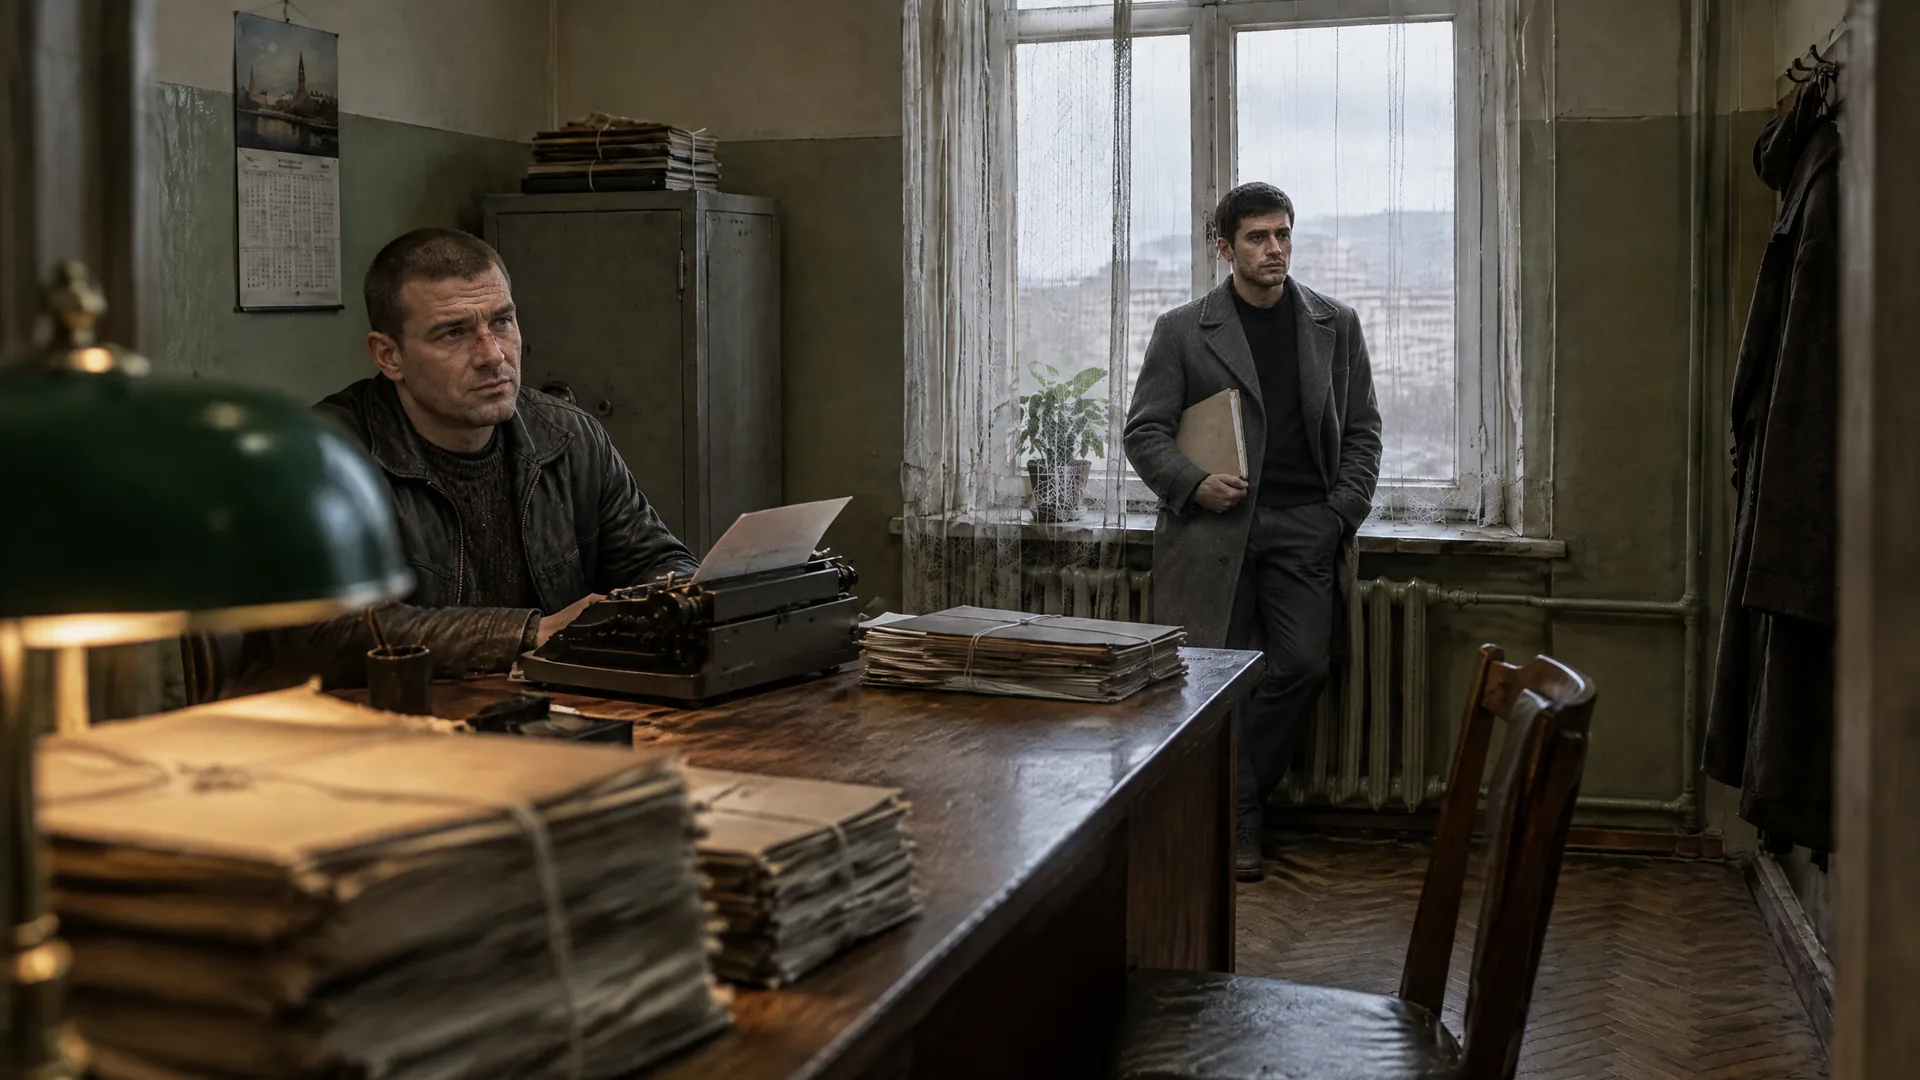
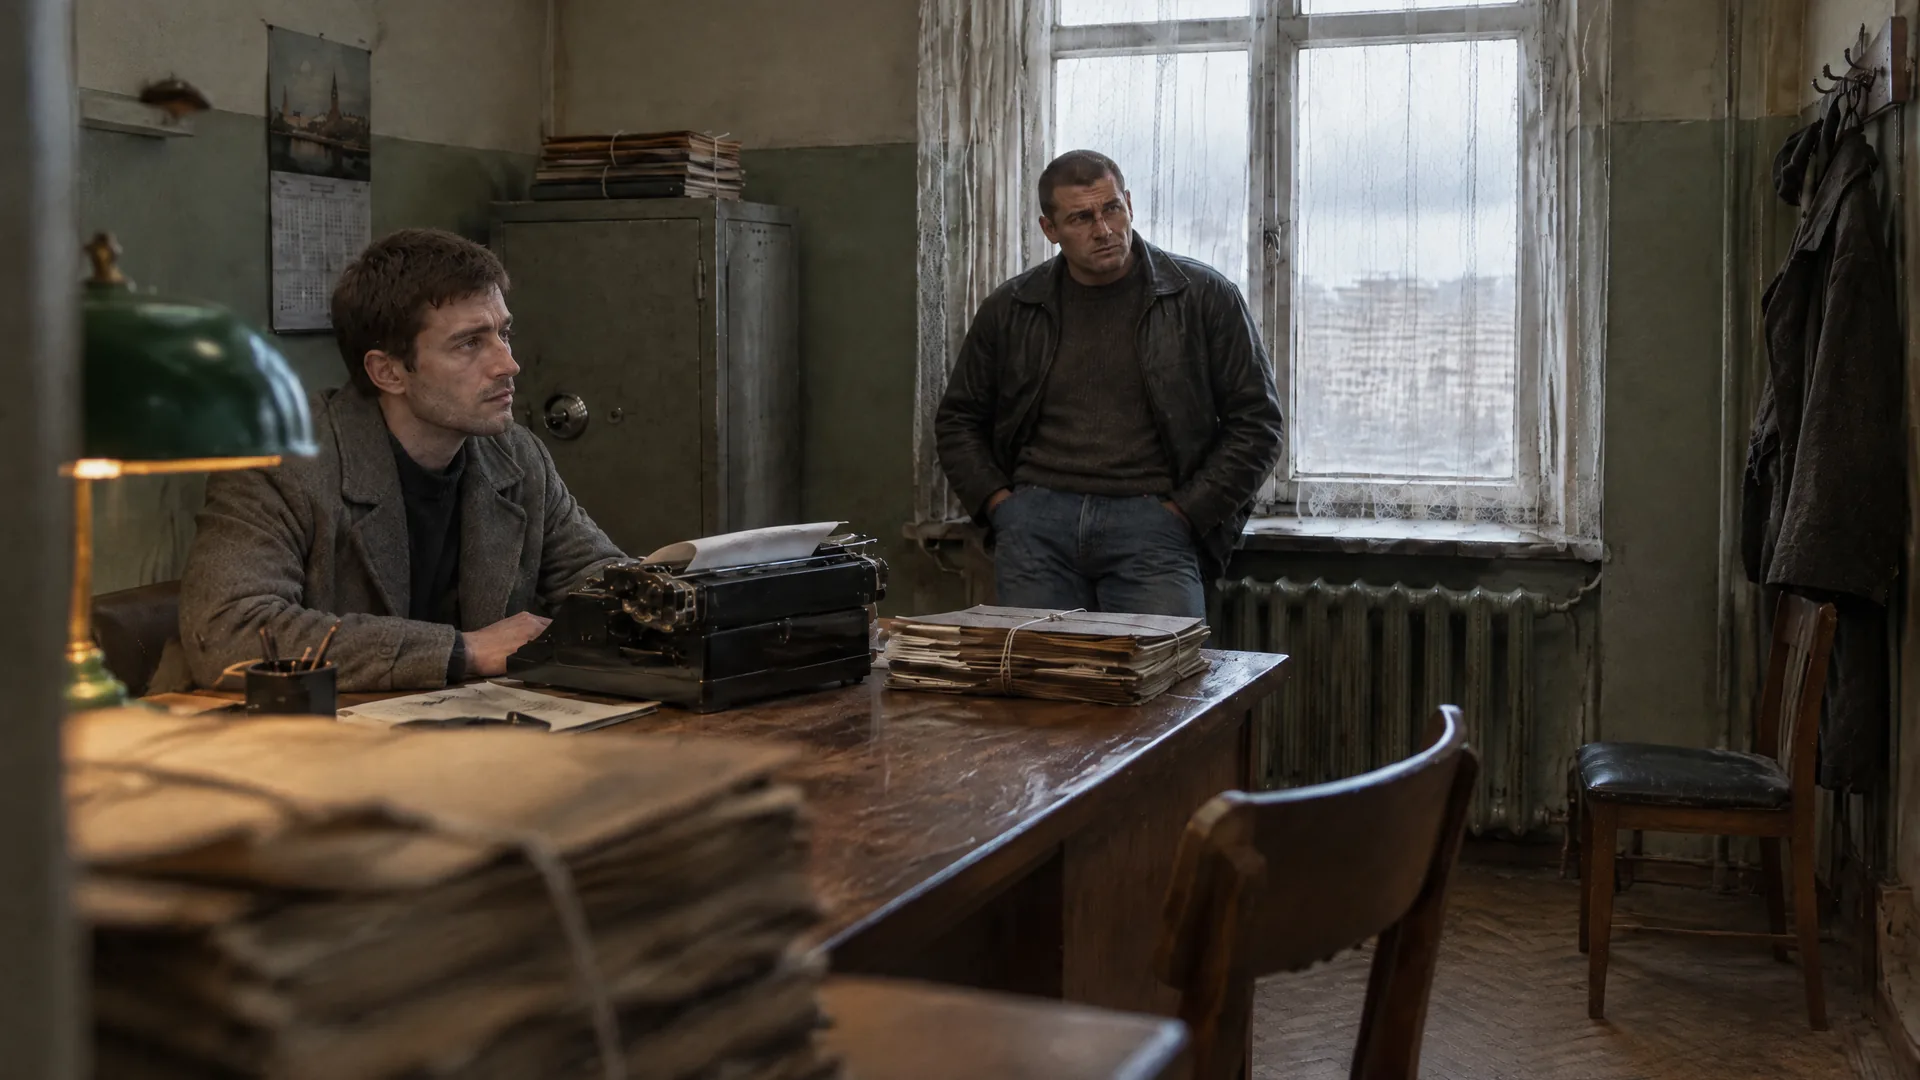
Раскадровка office_day закрыта (41/41): ракурсы по среднему референсу; пилот office_night
- angle_low / angle_foreground: приняты варианты со средним планом в референсе (с общим планом модель
  меняла людей местами); в планировщике ракурсы берут референс REF_SHOTS["angle"], для ночного сета
  той же комнаты — дневные референсы с оговоркой о свете (SET_TOD).
- Манифест: пилот office_night (wide ×2, close, medium); журнал генерации — итоги волн 16–18.

Claude-Session: https://claude.ai/code/session_01AuW8jjJwayzqYj6WLfnAKs

diff --git a/tools/shot_plan.py b/tools/shot_plan.py
@@ -182,8 +182,25 @@ def screen_sides(bg: str, a: str, b: str) -> tuple[str, str] | None:
 # крупность. Ключ — сет, значение — id кадра из манифеста (его job id подставляется первым референсом).
 REF_SHOTS = {
     "office_day": {"medium": "sh_office_day_medium_2", "close": "sh_office_day_close_sledak_tense",
-                   "reaction": "sh_office_day_close_sledak_tense"},
+                   "reaction": "sh_office_day_close_sledak_tense", "angle": "sh_office_day_medium_2"},
+    # Ночной сет той же комнаты: пока нет принятого ночного близкого кадра, референс — дневной; промпт
+    # говорит, что свет теперь другой (LIGHT NOW). После первого принятого ночного кадра — заменить.
+    "office_night": {"medium": "sh_office_day_medium_2", "close": "sh_office_day_close_sledak_tense",
+                     "reaction": "sh_office_day_close_sledak_tense", "angle": "sh_office_day_medium_2"},
 }
+# Для ракурсов (angle) референс — принятый средний план, а не общий: с общим планом модель дважды
+# меняла людей местами (office_day, волна 18), со средним оба ракурса вышли с первого раза.
+
+# Время суток каждого сета (заполняется в analyse_sets) — чтобы сказать модели, что референс снят при другом свете.
+SET_TOD: dict[str, str] = {}
+
+
+def ref_shot_tod(shot_id: str) -> str | None:
+    """Время суток сета, которому принадлежит референс-кадр (по префиксу id)."""
+    for name, tod in SET_TOD.items():
+        if shot_id.startswith(f"sh_{name}_"):
+            return tod
+    return None
 
 INSERTS = {
     "bg_office_prosecutor": [
@@ -369,10 +386,23 @@ def build_prompt(base: str, realism: str, shot: dict, bg_subject: str, tod: str,
     body = re.sub(r"CAMERA\n(?:- [^\n]*\n)+", cam + "\n", base, count=1)
     body = body.replace("IMPORTANT RESTRICTIONS", realism.rstrip("\n") + "\n\nIMPORTANT RESTRICTIONS", 1)
     # референсы
-    closer = shot["kind"] in ("medium", "close", "reaction") and REF_SHOTS.get(shot["set"], {}).get(shot["kind"])
-    refs = [("Reference 1 is the same room seen from closer: keep its furniture, light and colours; frame this shot "
-             "at least as close as Reference 1." if closer else
-             "Reference 1 is the room itself: keep its furniture, window, lamps and props exactly where they are.")]
+    closer = shot["kind"] in ("medium", "close", "reaction", "angle") and REF_SHOTS.get(shot["set"], {}).get(shot["kind"])
+    ref_tod = ref_shot_tod(closer) if closer else None
+    if closer and shot["kind"] == "angle":
+        ref1 = ("Reference 1 is the same room seen from closer: keep its furniture, light and colours and who sits "
+                "where, but do not copy its framing: the camera of this shot stands where the scene text says.")
+        if ref_tod and ref_tod != tod:
+            ref1 = ref1[:-1] + f"; it was photographed by {ref_tod}, and the light is now as LIGHT NOW in the scene text says."
+    elif closer and ref_tod and ref_tod != tod:
+        ref1 = (f"Reference 1 is the same room seen from closer, photographed by {ref_tod}: keep its furniture and "
+                "colours and stand the camera at least as close, but the light is now different, exactly as LIGHT NOW "
+                "in the scene text says.")
+    elif closer:
+        ref1 = ("Reference 1 is the same room seen from closer: keep its furniture, light and colours; frame this shot "
+                "at least as close as Reference 1.")
+    else:
+        ref1 = "Reference 1 is the room itself: keep its furniture, window, lamps and props exactly where they are."
+    refs = [ref1]
     for i, c in enumerate(shot["cast"], start=2):
         who = c["who"]
         tail = "; this person's face is never shown clearly: back to the camera, turned away or in shadow" if who in HIDDEN_FACE else ""
@@ -416,6 +446,7 @@ def analyse_sets(ep: dict) -> "OrderedDict[str, dict]":
         if not bg or bg == "bg_black":
             continue
         d = sets.setdefault(name, {"set": name, "bg": bg, "tod": tod, "scenes": [], "comps": Counter(), "pairs": Counter(), "closes": Counter(), "present": Counter(), "lines": 0})
+        SET_TOD[name] = tod
         d["scenes"].append(sid)
         onstage: OrderedDict[str, str] = OrderedDict()
         prev_speaker = None

diff --git a/assets/ep01/generation-log.md b/assets/ep01/generation-log.md
@@ -350,8 +350,9 @@ daylight, slush»). Решение: панорама хроники переге
 | 11 | medium_1, 3, 4, close_oper_grin (референс — принятый близкий кадр) | все четыре приняты: при близком референсе модель держит крупность |
 | 12 | insert_2, angle_low/high/doorway | insert_2 и angle_high приняты; angle_low и angle_doorway — копии общего плана (камера не сдвинулась) |
 | 13–15 | close ×12 (близкий референс) | все 12 приняты: лица, руки, одежда и комната без артефактов; у Сайко «сломанный нос» модель читает как след перелома на переносице — одинаково во всех крупных планах, оставлен |
-| 16–17 | reaction ×5, ots_expert_oper / ots_oper_expert (явные стороны экрана) | на проверке |
-| 18 | angle_low, angle_foreground — по конкретному описанию места камеры; каждый в двух вариантах референса (общий план / средний план) | на проверке |
+| 16–17 | reaction ×5, ots_expert_oper / ots_oper_expert (явные стороны экрана) | все 7 приняты: слушающий с мягким плечом говорящего у края кадра; пара expert/oper впервые на верных сторонах |
+| 18 | angle_low, angle_foreground — по конкретному описанию места камеры; каждый в двух вариантах референса (общий план / средний план) | с общим планом в референсе оба кадра поменяли людей местами (опер за машинкой, следователь у окна); со средним планом оба приняты: камера на столе под абажуром, потолок в кадре; взгляд вдоль стола из-за папок. Сет office_day закрыт: 41 кадр из 41, применён к эпизоду (`assets.shots`, `coverage`) |
+| 19 | пилот office_night: wide ×2 (референс — дневной фон), close_sledak_tense и medium_1 (дневные близкие референсы, LIGHT NOW: ночь) | на проверке |
 
 Правила, добавленные по итогам: словесные приметы каждого референса (`docs/production/prompts/ep01-images.md`,
 таблица персонажей); для `ots` — «камера за спиной X, лицом к камере Y, людей не менять местами» и явные
